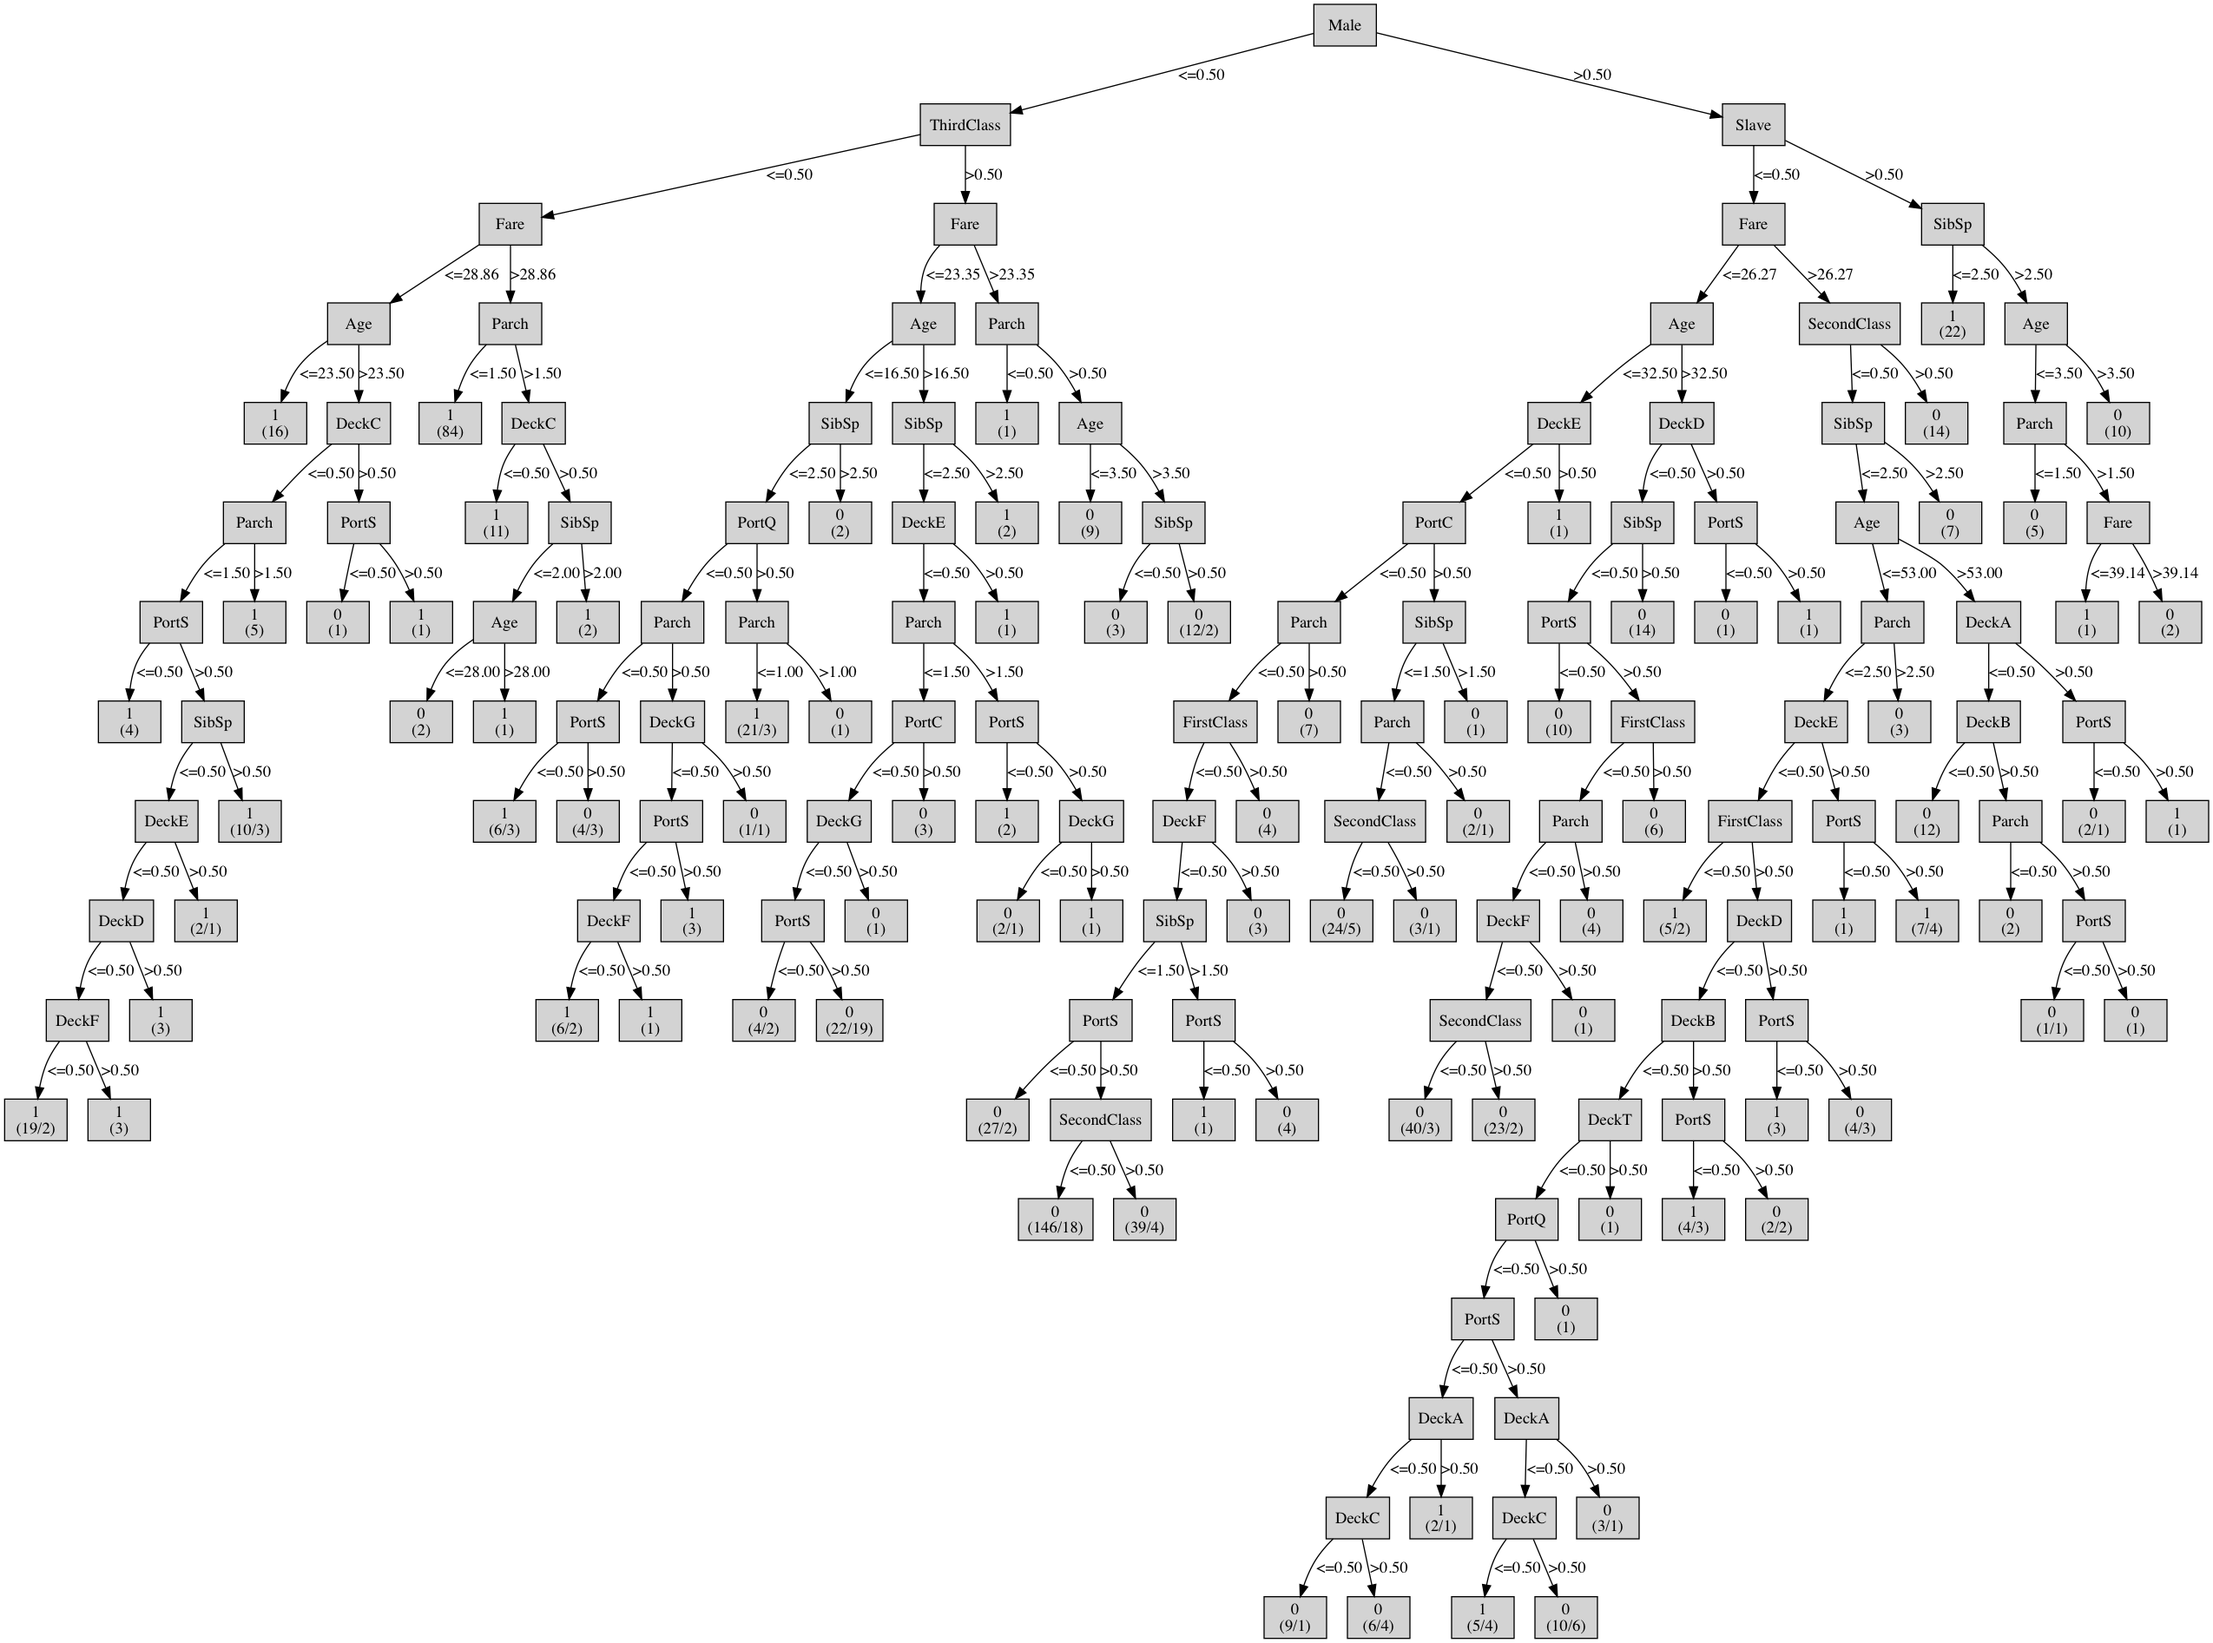
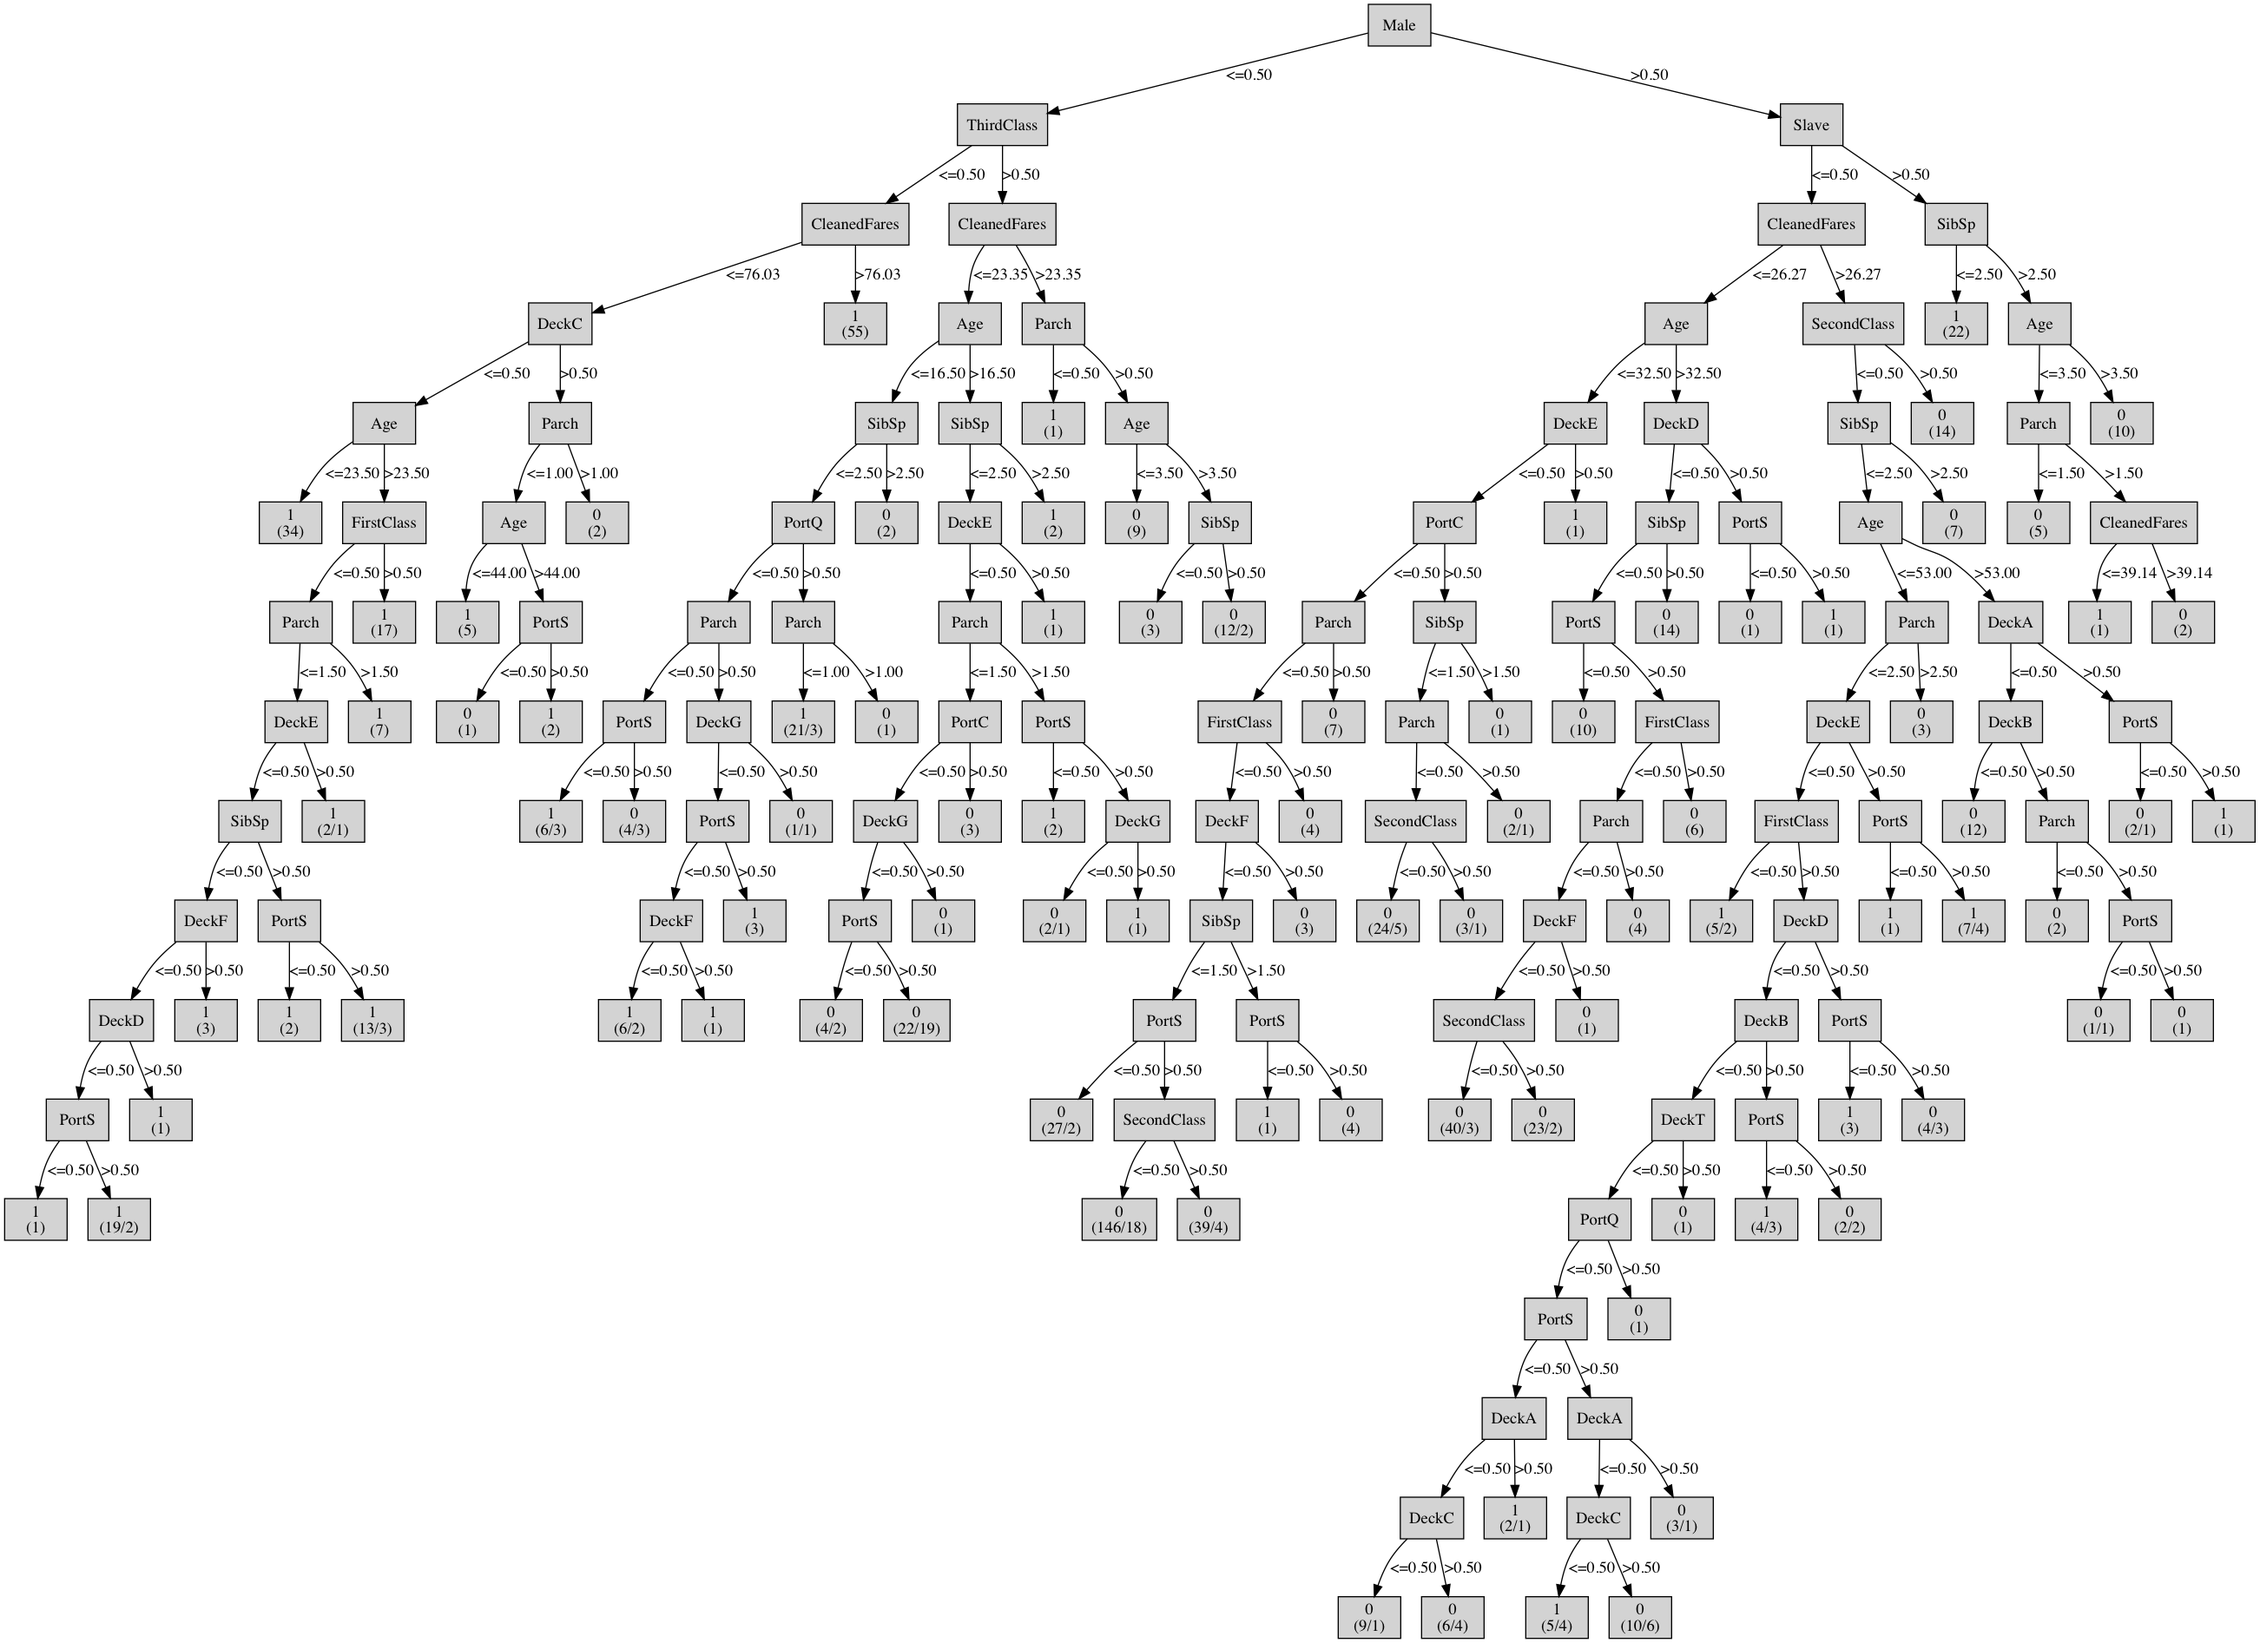
readme todos, deleted fares column, new model calculation

diff --git a/run.py b/run.py
@@ -263,7 +263,7 @@ create_dummy_vars_from_embarked()
 print("\n--------------------------------------DATASET CLEANING------------------------------------------\n")
 # clean all useless columns
 def delete_usless_columns():
-    columns = ['Pclass', 'Sex', 'Deck', 'Name', 'PassengerId', "Title", "Ticket", "Name", "Surname", "FirstNames", "Brakets", "Cabin", "Embarked", "PreTicketSequence"]
+    columns = ['Pclass', 'Sex', 'Deck', 'Name', 'PassengerId', "Title", "Ticket", "Name", "Surname", "FirstNames", "Brakets", "Cabin", "Embarked", "PreTicketSequence", "Fare"]
     print("Deleting columns: ", columns)
     dataframe.drop(columns, inplace=True, axis=1)
 
@@ -277,8 +277,6 @@ print(dataframe)
 # ----------------------------------------
 # DECISION TREE
 # ----------------------------------------
-# brew install graphviz
-# pip3 install IPython 
 print("\n--------------------------------------DECISION TREE GENERATION------------------------------------------\n")
 import subprocess
 from id3 import Id3Estimator

diff --git a/README.md b/README.md
@@ -1,16 +1,25 @@
-# install packages
+# install packages (via your terminal)
+*Note:* We use Python 3
 
 ```
 pip3 install pandas
 pip3 install missingno
 pip3 install numpy
 pip3 install decision-tree-id3
-
+pip3 install IPython 
 ```
 
+## Depentencies
 
+- a local graphviz version. Mac: `brew install graphviz`. Windows: https://graphviz.gitlab.io/_pages/Download/Download_windows.html
 
 # run the script
 ```
 python3 run.py
 ```
+
+# TODOS
+- [ ] Missing values cleaning
+- [ ] Intense commenting
+- [X] Decision tree calculation (ID3)
+- [ ] Model calculation testing (score)
